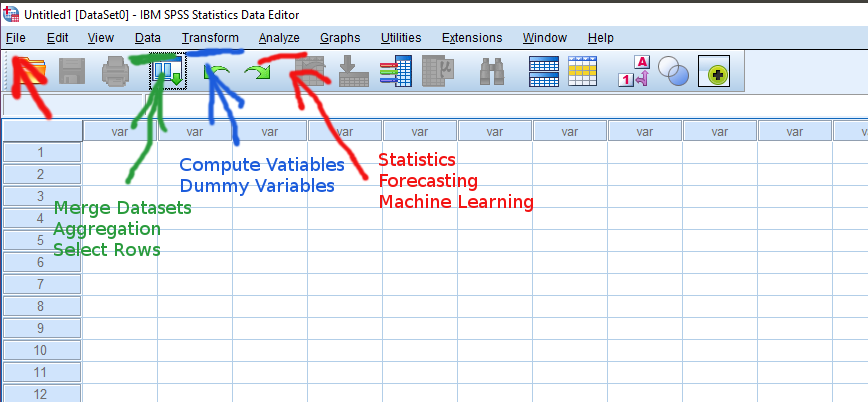
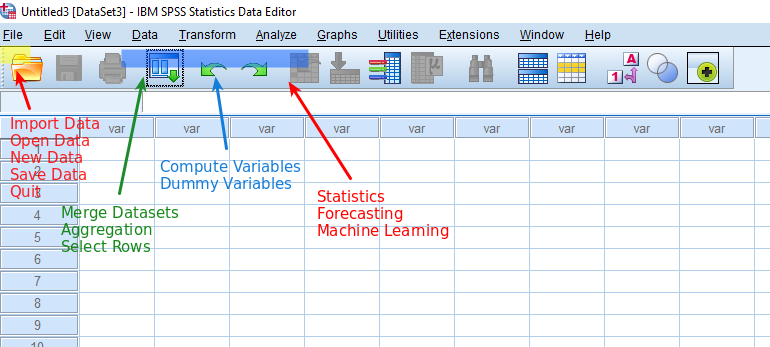
#4319. Rremove unnecessary text, check text style and fix image.

diff --git a/integration/spss/README.md b/integration/spss/README.md
@@ -2,21 +2,28 @@
 
 [IBM SPSS Statistics](https://www.ibm.com/analytics/us/en/technology/spss/) is an advanced statistical analysis tool. The following guide describes the process of loading data from Axibase Time Series Database into SPSS for calculating derived (computed) series.
 
-* [**Data preprocessing**](#data-preprocessing)
-  * [**Execute and export SQL query from ATSD**](#execute-and-export-sql-query-from-atsd)
-  * [**Intro to IBM SPSS GUI**](#intro-to-ibm-spss-gui)
-  * [**Import data to IBM SPSS**](#import-data-to-ibm-spss)
-  * [**Merge datasets**](#merge-datasets)
-* [**Data Analysis**](#data-analysis)
-  * [**Create new dataset column**](#create-new-dataset-column)
-  * [**Data Aggregation**](#data-aggregation)
+* [Data preprocessing](#data-preprocessing)
+  * [Sample Data](#sample-data)
+  * [Execute and export SQL query from ATSD](#execute-and-export-sql-query-from-atsd)
+  * [Introduction to IBM SPSS GUI](#introduction-to-ibm-spss-gui)
+  * [Import data to IBM SPSS](#import-data-to-ibm-spss)
+  * [Merge datasets](#merge-datasets)
+* [Data Analysis](#data-analysis)
+  * [Create new dataset column](#create-new-dataset-column)
+  * [Data Aggregation](#data-aggregation)
     * [Aggregation with Analyze block](#aggregation-with-analyze-block)
     * [Aggregation with Data block](#aggregation-with-data-block)
-* [**Sample Data**](#sample-data)
 
 ## Data preprocessing
 
 Before data analysis we must take datasets and preprocess them.
+
+### Sample Data
+
+1. In order to try SPSS you can download files [weights.csv](resources/weights.csv) and [prices.csv](resources/prices.csv) without retrieving data with SQL on your own.
+
+2. In addition there are available [series commands](resources/commands.txt) that can be imported into ATSD on the **Metrics -> Data Entry** page of Axibase site.
+
 
 ### Execute and export SQL query from ATSD
 
@@ -28,14 +35,14 @@ Suppose we solve a problem of yearly consumer basket index calculation. We have 
 
 ```sql
 SELECT entity, datetime as timedate, value as weight, tags.category 
-FROM inflation.cpi.categories.weight 
+    FROM inflation.cpi.categories.weight 
 ORDER BY tags.category, datetime
 ```
  * dataset with prices in 5 years period (2013-2017), it shows average of yearly prices in all marketing categories
 
 ```sql
 SELECT entity, datetime, value, tags.category 
-FROM inflation.cpi.categories.price 
+    FROM inflation.cpi.categories.price 
 ORDER BY tags.category, datetime
 ```
 Press `Execute` button to run these queries and export results to CSV files (for example, `prices.csv` and `weights.csv`).
@@ -46,7 +53,7 @@ Screenshot for dataset with prices
 
 > Note SPSS makes merge of datasets by common columns. So, in the first query we have to write aliases for metric's value as `weight` and for datetime column as `timedate`. Otherwise, we would have got merged dataset with data only for 2017 year. On the other hand, you may try to exclude second `datetime` column before merge. But it should be better to give aliases for columns in SQL query.
 
-### Intro to IBM SPSS GUI
+### Introduction to IBM SPSS GUI
 
 **Lets look at main menu items for work in the future:**
 ![](resources/ibm_spss_gui.png)
@@ -66,7 +73,7 @@ After importing of your CSV files save them as datasets `prices.sav` and `weight
 
 ### Merge datasets
 
-In the end of data preprocessing, lets make merge of `.sav` files. In our case, we open `prices.sav` in SPSS and then add `weight` column from `weights.sav`.
+Merge the datasets by opening  the `prices.sav` file and adding the `weight` column from the `weights.sav` file.
 
 * **Data -> Merge Files... -> Add Variables...**
   * Select file you want to merge with current (`weights.sav`)
@@ -79,18 +86,16 @@ In the end of data preprocessing, lets make merge of `.sav` files. In our case, 
 
 > Be careful during files union, don't forget about final count of observations and check correctness of merged data. For example, we have files with 10 lines and 27 lines. If you select file with 10 lines as the basic, the final file will contain only 10 lines with new column. Otherwise, final dataset would have 27 lines.
 
-Then our merged file can be saved as `prices_merged.sav`
+Save the merged dataset into a new file `prices_merged.sav`.
 ![](resources/merged_data.png)
 
 ## Data Analysis
-
-So, data preprocessing was over and we are ready to make various analysis with new dataset.
 
 ### Create new dataset column
 
 Again, we want to know common yearly index of customer basket. Let we compute new column with production of `value` and `(weight/1000)` and then get sum of products for yearly period. 
 
-Open prices_merged.sav file and create new column `categ_ind`.
+Open `prices_merged.sav` file and create new column `categ_ind`.
 
 * **Transform -> Compute Variable...**  
   * Select columns from the left field into expression field and apply all operations you need. 
@@ -100,7 +105,6 @@ Open prices_merged.sav file and create new column `categ_ind`.
 
 We have got `categ_ind` column on the right end of our table.
 ![](resources/create_new_column.png)
-
 
 ### Data Aggregation
 
@@ -142,9 +146,4 @@ We have got `categ_ind` column on the right end of our table.
 > To change decimals of a scale variable click `Variable View` tab in the lower left corner of SPSS. This tab shows useful info about dataset variables (data type, measure, role etc.) and allows to add/delete/edit columns.
 ![](resources/variables_descr.png)
 
-> After user operation (analysis, chart building, open/close file, merge etc.) SPSS generates output file .spv with procedure commands. Storing of these outputs is a matter of your taste. It dependents on achievements, either you would check correctness of operations or not.
-
-## Sample Data
-1. [Series commands](resources/commands.txt) that can be imported into ATSD on the **Metrics > Data Entry** page.
-
-2. In order to try SPSS you can download files [weights.csv](resources/weights.csv) and [prices.csv](resources/prices.csv) without retrieving data with SQL on your own.
+> After user operation (analysis, chart building, open/close file, column computing, merge etc.) SPSS generates output file .spv with procedure commands. Storing of these outputs is a matter of your taste. It dependents on achievements, either you would check correctness of operations or not.
